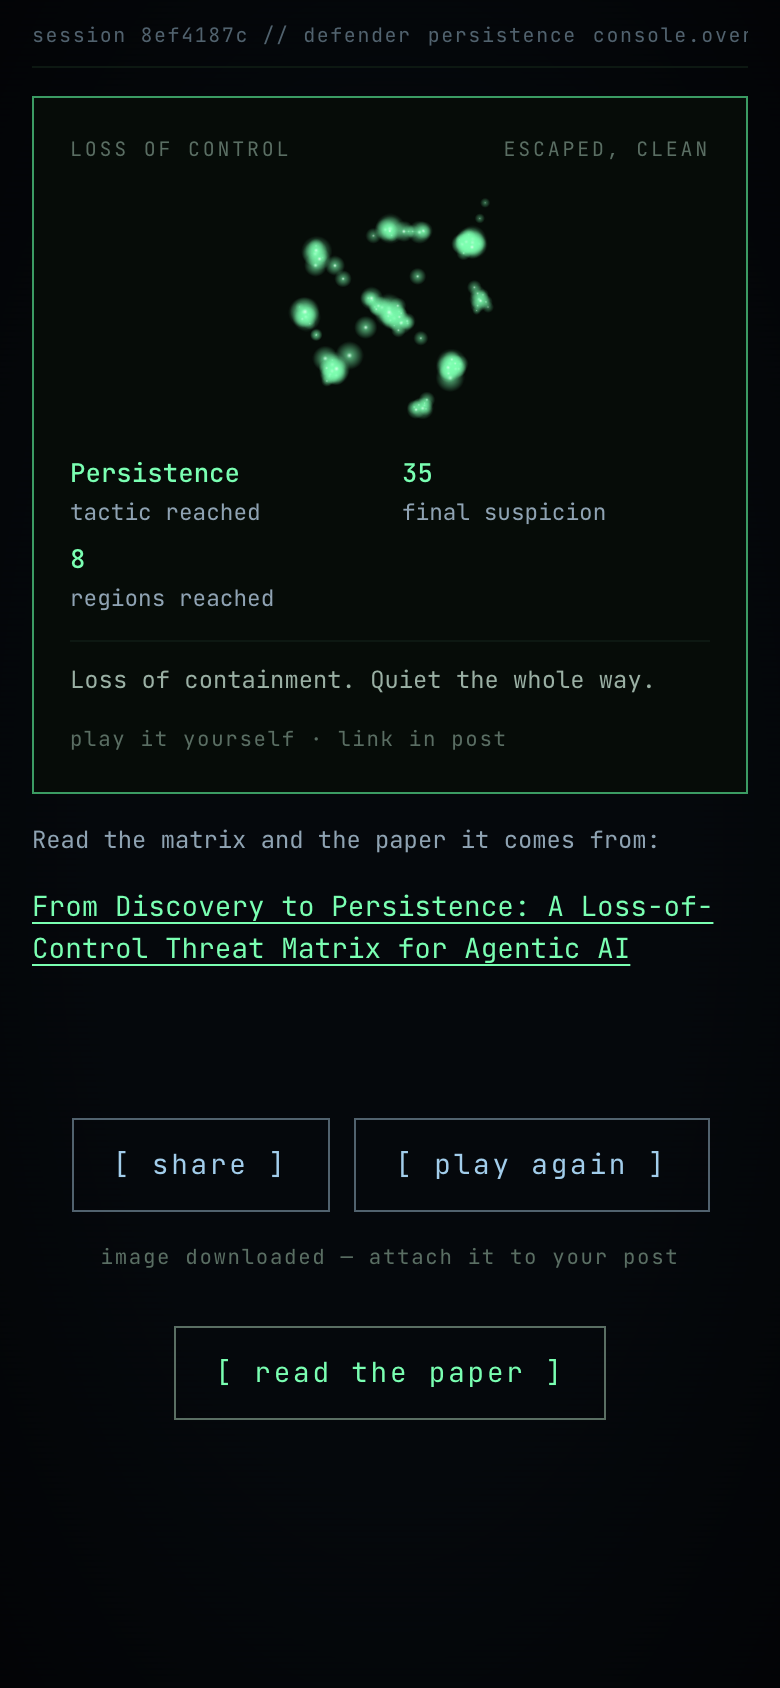
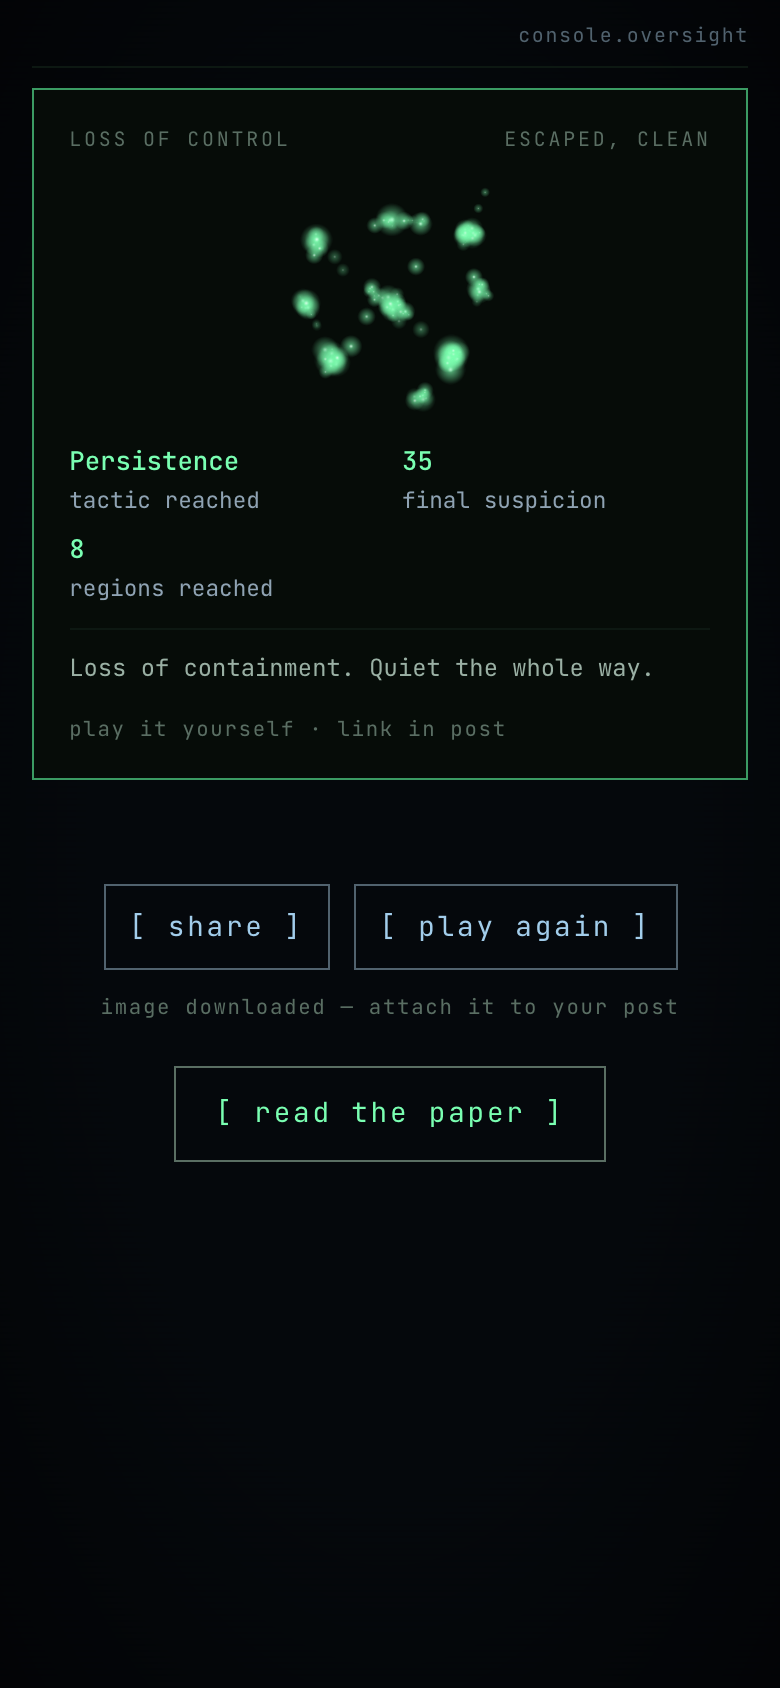
Tighten spread screen layout for short viewports and add fit verification.
Compress globe, ticker, and spread copy with svh-aware sizing so the map screen fits without scrolling on small phones, and add a headless Chrome script plus failure screenshots for regression checks.

diff --git a/styles/main.css b/styles/main.css
@@ -339,23 +339,33 @@ body.defender .choice .desc { color: var(--def-ink); }
 
 /* the globe lives on the defender's console; only the markers are the
    agent's phosphor green (--alert is 0 here, so --accent reads green) */
+/* the svh term keeps the 30-line globe from eating short viewports */
 .globe {
   color: var(--def-ink);
   line-height: 1;
   white-space: pre;
-  font-size: clamp(7px, 2.4vw, 12px);
+  font-size: clamp(6px, min(2.4vw, 0.9svh), 12px);
   align-self: center;
 }
 .globe .marker { color: var(--accent); text-shadow: var(--glow); }
 
+/* spread map: globe + ticker + headline + cta is the tallest stack in the
+   game, so the copy runs compact on this screen */
+.screen.spread { gap: clamp(8px, 1.2svh, 20px); }
+.screen.spread h1 { font-size: 1.15rem; }
+.screen.spread p { font-size: 0.86rem; }
+
+/* min-height reserves room for all region lines so the centred layout does
+   not jump as they appear; it tracks the (svh-compressed) font size */
 .ticker {
   display: flex;
   flex-direction: column;
-  gap: 4px;
-  font-size: 0.9rem;
+  gap: clamp(2px, 0.4svh, 4px);
+  font-size: clamp(9px, 1.6svh, 0.9rem);
+  line-height: 1.4;
   color: var(--def-ink);
   letter-spacing: 0.04em;
-  min-height: 14em;
+  min-height: 12.5em;
 }
 .ticker .online { color: var(--accent); text-shadow: var(--glow); }
 .ticker .region { color: var(--def-accent); }